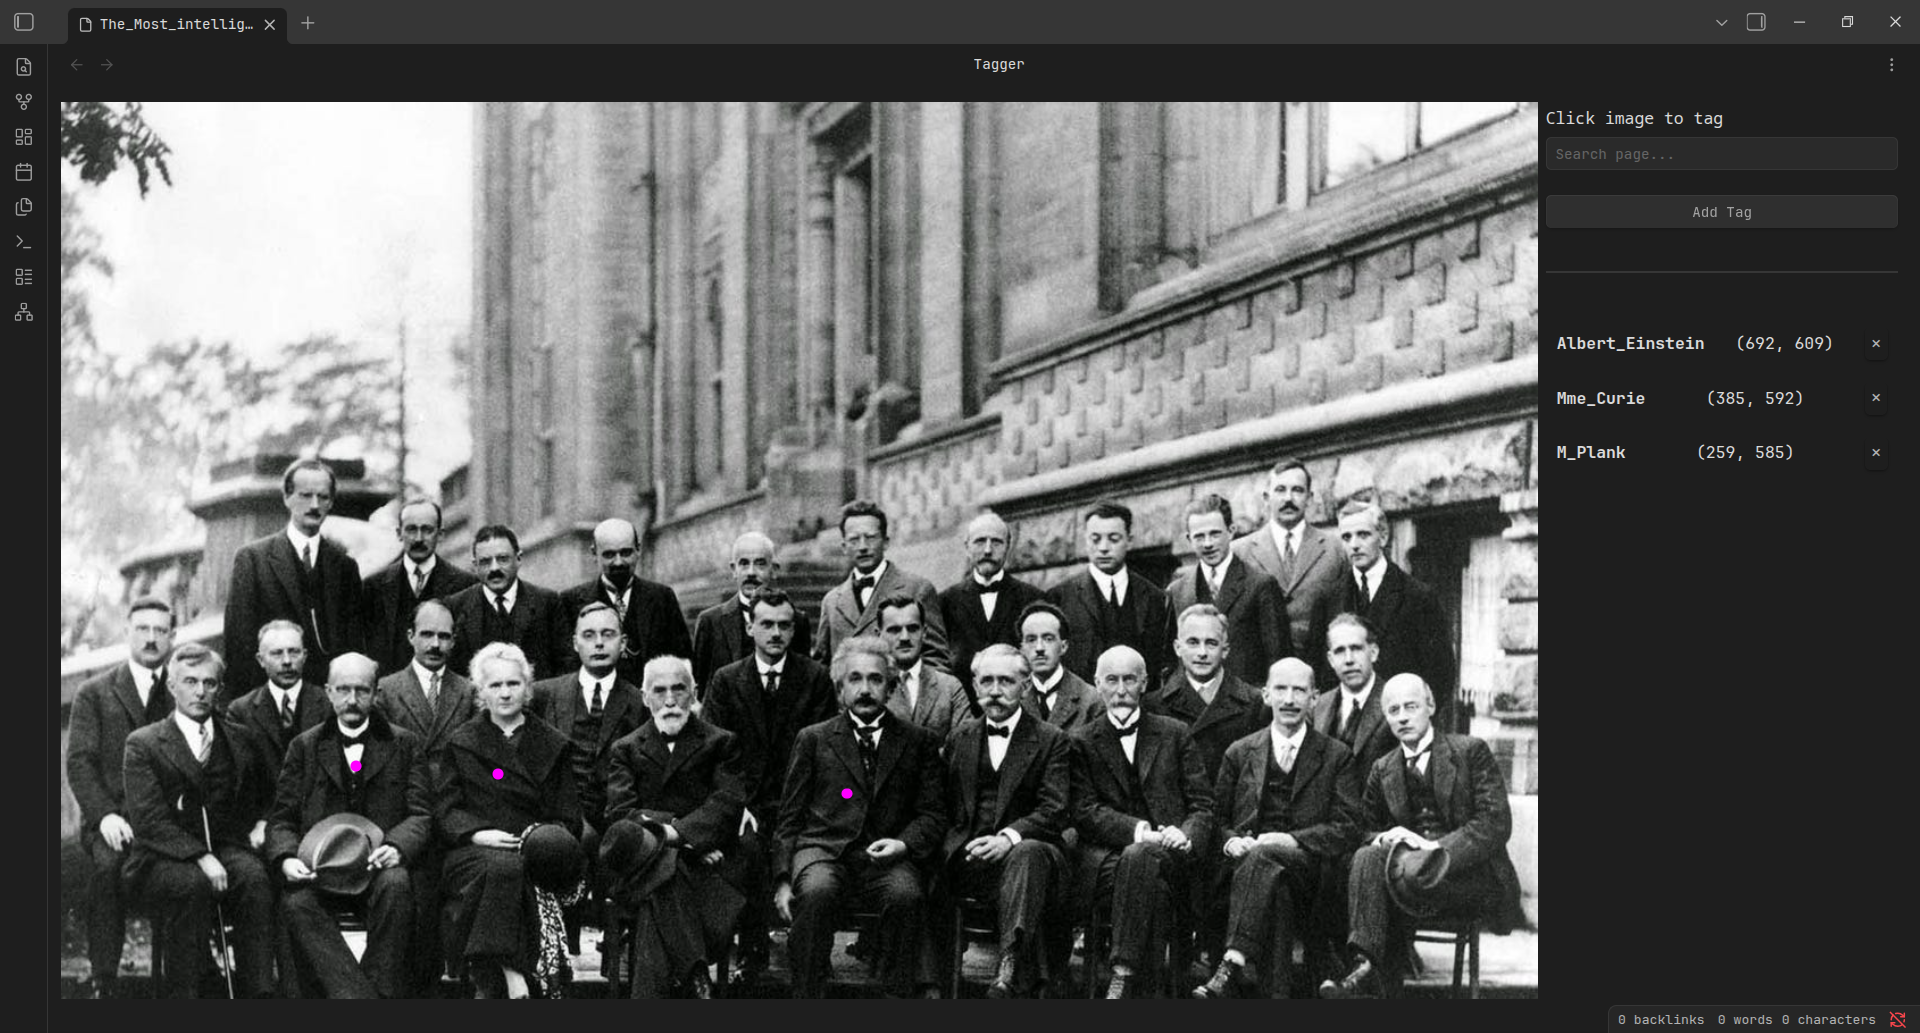
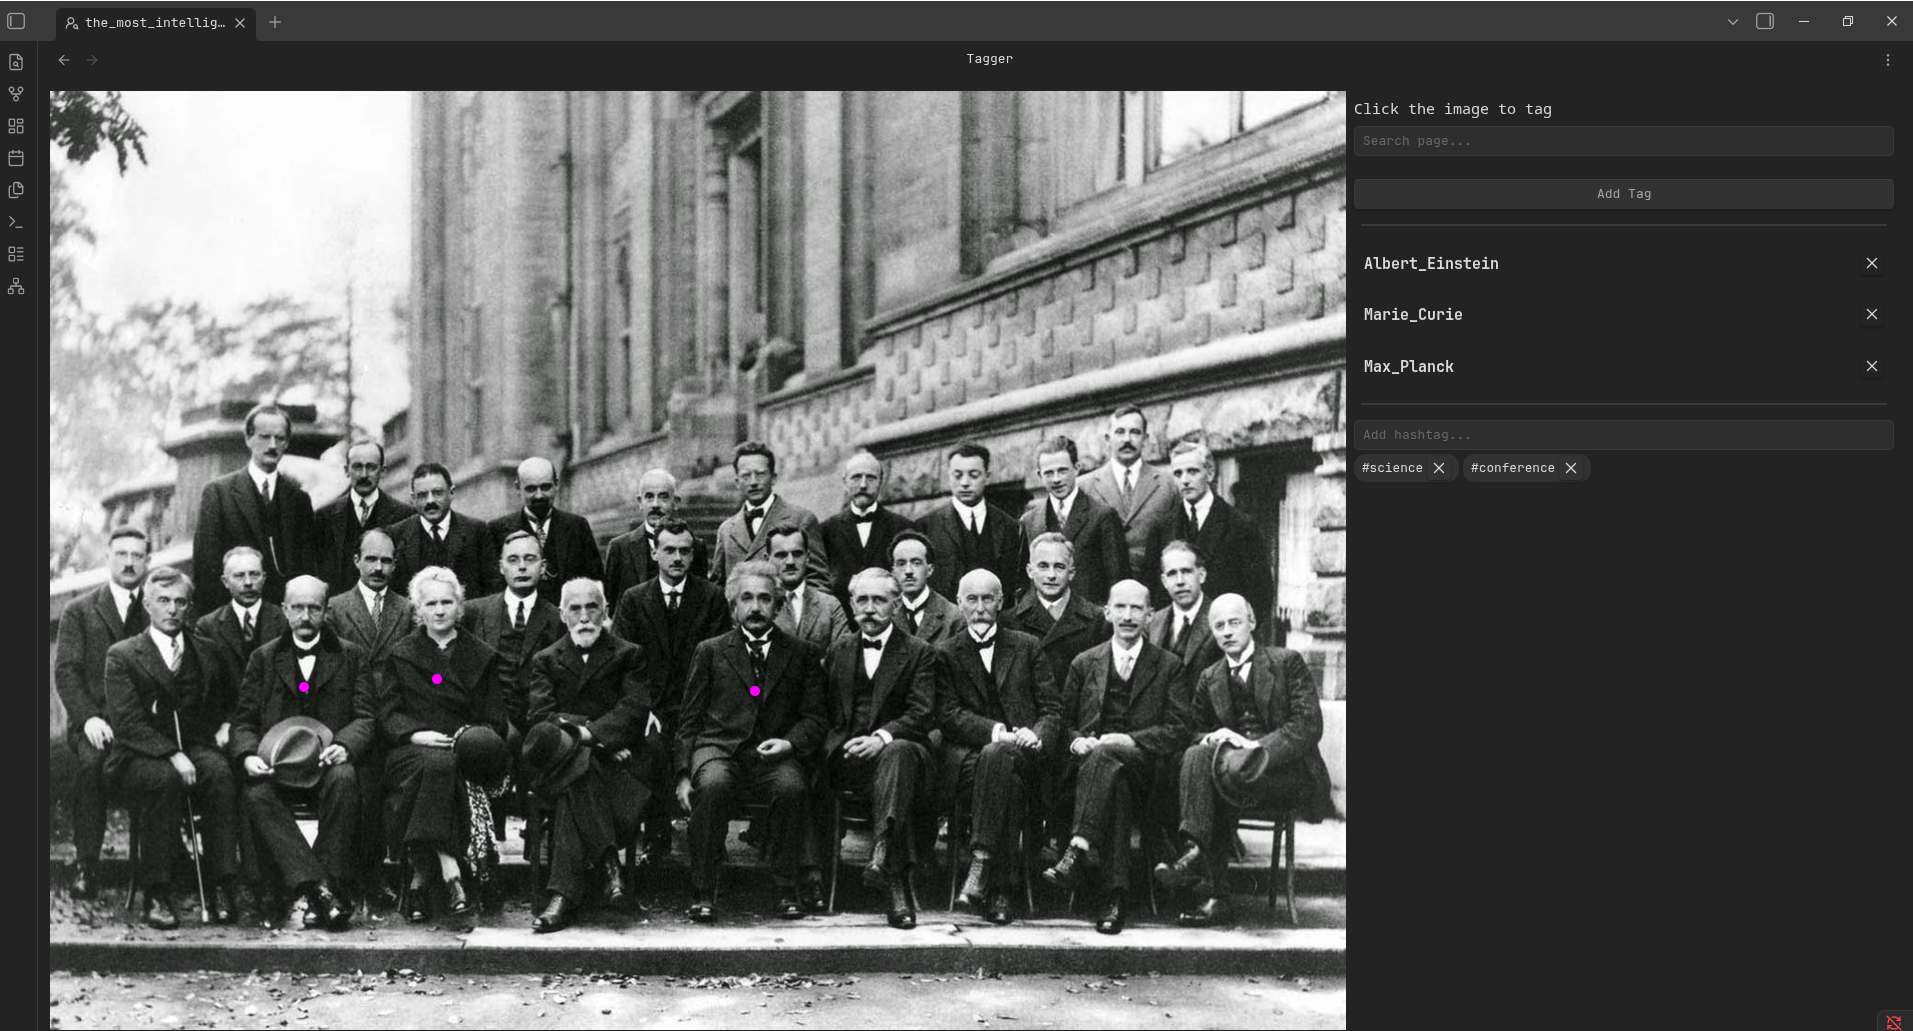
chore: v.0.3.1; (#27)

diff --git a/README.md b/README.md
@@ -64,8 +64,10 @@ cp manifest.json ${PHOTO_TAGGING_DIR}
        ```
    ```
    The plugin automatically resolves photos assigned to the current person:
-
-   ![](./assets/profile.png)
+   
+   | Person's plain gallery | Photos are grouped by hashtags |
+   |-|-|
+   | ![](./assets/profile.png) | ![](./assets/profile_hashtags.png) |
 
 All tags are saved inside JSON file. By default, the JSON file is located in the `photo-tags.json` at the root of the vault.
 You can change it in the plugin settings.
